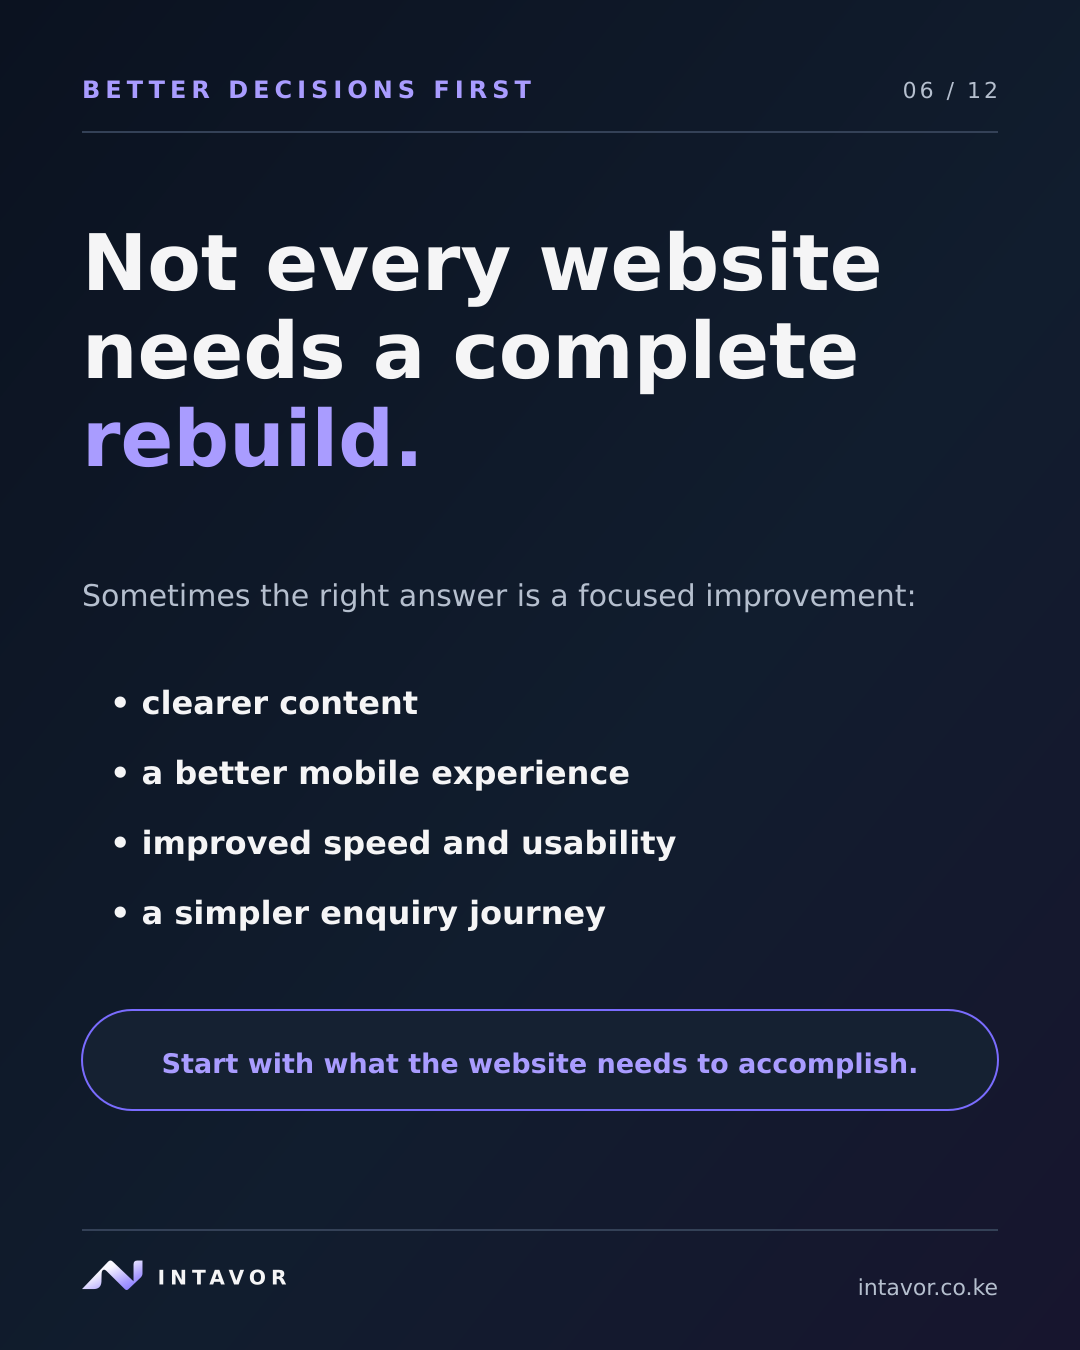
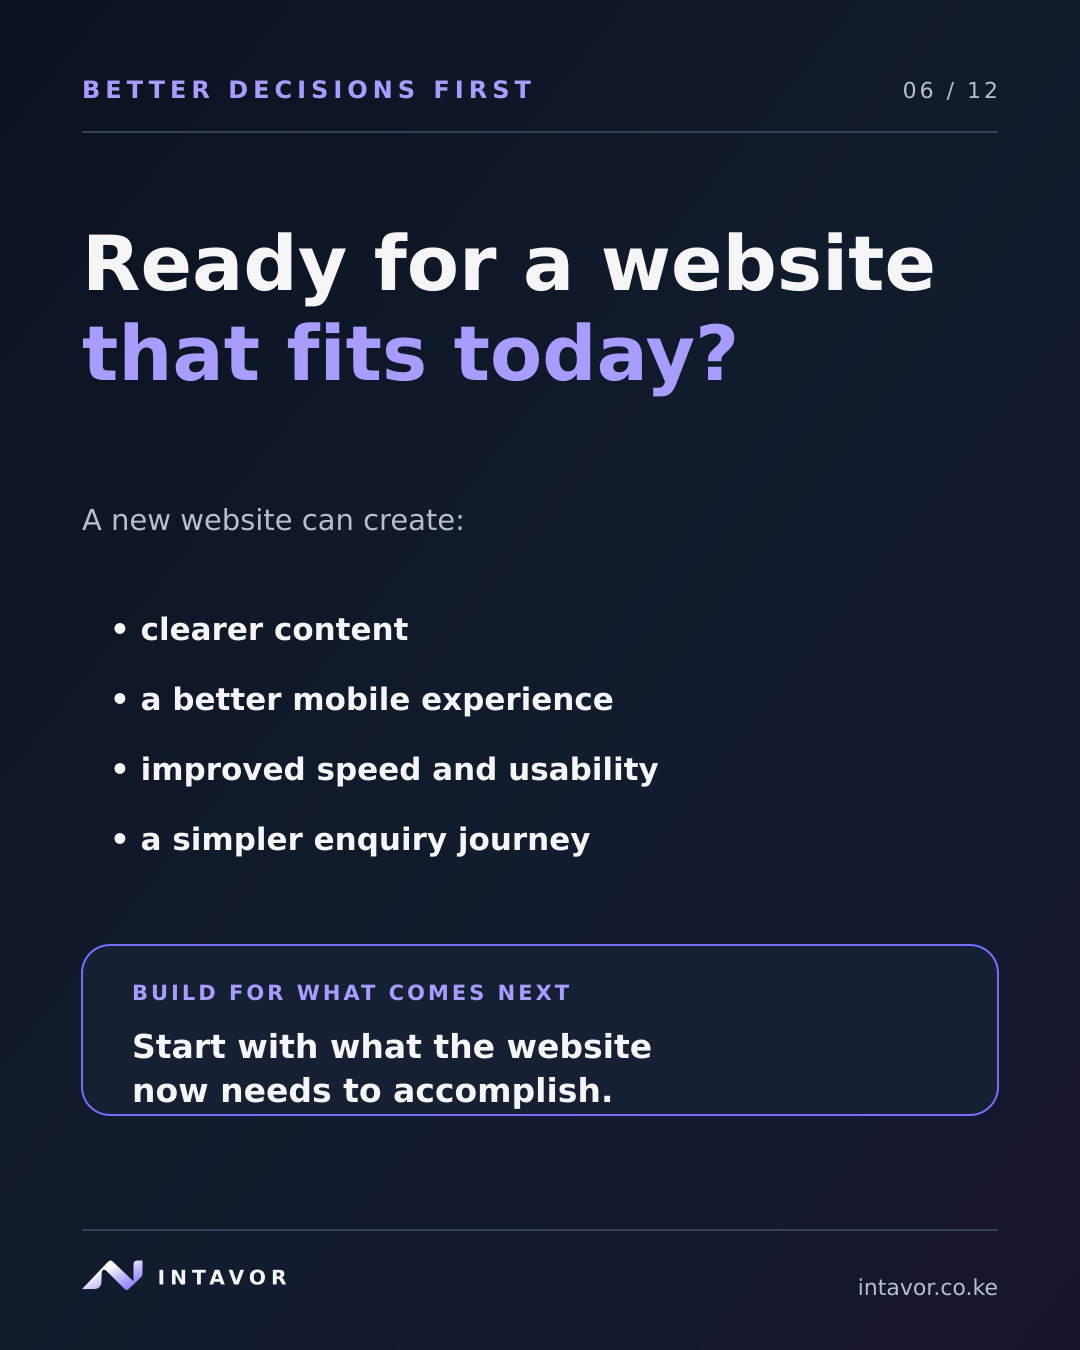
Refine service messaging around new website builds and post-delivery support, remove contact details from social captions, and update related marketing assets and contact copy

diff --git a/components/home/QuickContact.tsx b/components/home/QuickContact.tsx
@@ -6,6 +6,7 @@ import { Button } from "@/components/ui/button";
 import FadeIn from "@/components/animations/FadeIn";
 import GlowDivider from "@/components/decor/GlowDivider";
 import FlowLines from "@/components/decor/FlowLines";
+import { brandInfo } from "@/lib/data";
 
 export default function QuickContact() {
   return (
@@ -16,11 +17,12 @@ export default function QuickContact() {
       <div className="container mx-auto px-4 md:px-6 text-center">
         <FadeIn>
           <h2 className="text-3xl md:text-4xl font-heading font-bold mb-6">
-            Need a website built or better managed?
+            Need a website built to keep working?
           </h2>
           <p className="text-xl text-muted-foreground max-w-2xl mx-auto mb-8">
-            Start with a new digital platform, improve an existing one, or put
-            dependable ongoing support in place.
+            Start with a new digital platform built around what your
+            organisation needs now, with dependable ongoing support available
+            after delivery.
           </p>
           <div className="flex flex-col sm:flex-row items-center justify-center gap-4">
             <Button
@@ -39,7 +41,7 @@ export default function QuickContact() {
               className="rounded-full w-full sm:w-auto"
               asChild
             >
-              <a href="mailto:intavortech@gmail.com">
+              <a href={`mailto:${brandInfo.email}`}>
                 <Mail className="mr-2 w-4 h-4" />
                 Send Email
               </a>

diff --git a/app/contact/page.tsx b/app/contact/page.tsx
@@ -39,8 +39,9 @@ export default function ContactPage() {
                     <span className="text-primary">Keep It Working.</span>
                   </h1>
                   <p className="text-muted-foreground">
-                    Share what your website needs to do, whether it is a new
-                    build, a focused improvement, or ongoing support.
+                    Share what your next website needs to do, whether you are
+                    starting from scratch or moving on from one that no longer
+                    serves you. Ongoing support is available after delivery.
                   </p>
                 </div>
               </FadeIn>

diff --git a/components/contact/ContactForm.tsx b/components/contact/ContactForm.tsx
@@ -96,8 +96,8 @@ export default function ContactForm() {
             Send a Message
           </CardTitle>
           <CardDescription>
-            Tell INTAVOR about a new build, an existing website, or the support
-            you need.
+            Tell INTAVOR about the website your organisation needs next, or the
+            support you need after delivery.
           </CardDescription>
         </CardHeader>
         <CardContent>

diff --git a/lib/data.ts b/lib/data.ts
@@ -46,7 +46,7 @@ export const services = [
   {
     title: "Improve",
     summary:
-      "Focused refinements to usability, performance, and features as your organisation's needs evolve.",
+      "Focused refinements to usability, performance, and features for websites INTAVOR delivers as organisations' needs evolve.",
     includes: ["Responsive design", "Performance", "Integrations"],
     icon: RefreshCcw,
   },

diff --git a/README.md b/README.md
@@ -42,8 +42,9 @@ presence to keep working beyond launch.
 ### Service model
 
 1. **Build** — websites and web applications shaped around real goals.
-2. **Manage** — updates, technical care, and reliable ongoing support.
-3. **Improve** — focused refinements as an organisation evolves.
+2. **Manage** — updates, technical care, and reliable support after delivery.
+3. **Improve** — focused refinements to INTAVOR-delivered websites as an
+   organisation evolves.
 
 ### Voice
 
@@ -280,6 +281,10 @@ Append this small set to each launch caption:
 
 Do not add unrelated trending hashtags.
 
+Do not include website URLs, email addresses, or other contact links in post
+captions. Direct people to the profile link, platform action button, or direct
+messages instead so the same caption works cleanly on Instagram and Facebook.
+
 ## Four-week launch calendar
 
 The initial calendar begins Monday, 16 November 2026. If the accounts are not
@@ -314,8 +319,6 @@ Clear thinking. Dependable execution. Support beyond launch.
 
 Tech built with intention.
 
-intavor.co.ke
-
 #INTAVOR #WebDevelopmentKenya #WebsiteSupport #NairobiBusiness
 ```
 
@@ -337,7 +340,7 @@ That is the standard behind everything we build.
 ### Post 3 — Build, Manage, Improve
 
 ```text
-Your organisation may need a completely new website—or simply dependable support for the one it already has.
+Your organisation may need its first website or a new one that better fits where it is today.
 
 INTAVOR helps at every stage:
 
@@ -376,19 +379,19 @@ If visitors have to search for these answers, the website is making their decisi
 #INTAVOR #WebDevelopmentKenya #WebsiteSupport #NairobiBusiness
 ```
 
-### Post 6 — Rebuild or improve?
+### Post 6 — A website that fits today
 
 ```text
-Not every website needs to be rebuilt.
+Sometimes a website no longer reflects the business behind it.
 
-Sometimes the better decision is a focused improvement:
+When repeated patches cannot solve the larger problem, the better step may be a new website built around what the business needs today.
 
 • clearer content
 • a better mobile experience
 • improved usability and speed
 • a simpler enquiry journey
 
-Start with what the website needs to accomplish—not with a predetermined solution.
+Start with what the next website needs to accomplish.
 
 #INTAVOR #WebDevelopmentKenya #WebsiteSupport #NairobiBusiness
 ```
@@ -436,7 +439,7 @@ That starts with understanding what the website genuinely needs to achieve.
 ```text
 A dependable website needs dependable support.
 
-Ongoing website support helps you:
+After delivery, ongoing website support helps you:
 
 • keep information current
 • fix friction before it becomes a bigger problem
@@ -467,10 +470,7 @@ No unnecessary complexity. No disappearing after launch.
 ```text
 What should your website be doing better?
 
-Whether you need a new platform, reliable website management or focused improvements to what you already have, let’s start with a conversation.
-
-intavor.co.ke/contact
-contact@intavor.co.ke
+Whether you need your first website, a new one that better fits or dependable support after delivery, let’s start with a conversation.
 
 #INTAVOR #WebDevelopmentKenya #WebsiteSupport #NairobiBusiness
 ```
